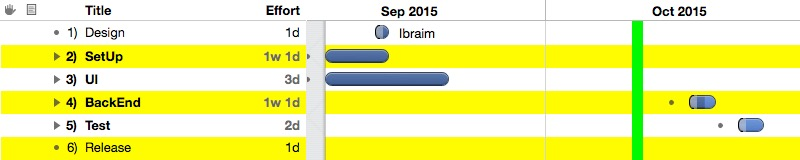
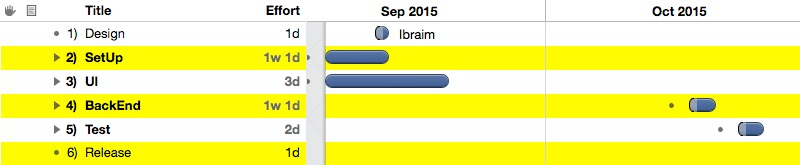
Final Commit

diff --git a/docs/GanttChart/GanttChart.html b/docs/GanttChart/GanttChart.html
@@ -30,7 +30,7 @@
                 <td>9/7/15, 8:00 AM</td>
                 <td>11/24/15, 8:15 AM</td>
                 <td>11w 1d 0.25h</td>
-                <td>71%</td>
+                <td>100%</td>
                 <td></td>
                 <td align="right"></td>
                 <td></td>
@@ -251,7 +251,7 @@
                 <td>10/16/15, 3:00 PM</td>
                 <td>10/20/15, 3:15 PM</td>
                 <td>2d 0.25h</td>
-                <td>58%</td>
+                <td>100%</td>
                 <td></td>
                 <td align="right"></td>
                 <td></td>
@@ -319,7 +319,7 @@
                 <td>10/16/15, 3:00 PM</td>
                 <td>10/19/15, 3:00 PM</td>
                 <td>1d</td>
-                <td>0%</td>
+                <td>100%</td>
                 <td></td>
                 <td align="right"></td>
                 <td>Luis</td>
@@ -336,7 +336,7 @@
                 <td>10/16/15, 3:00 PM</td>
                 <td>10/19/15, 3:00 PM</td>
                 <td>1d</td>
-                <td>0%</td>
+                <td>100%</td>
                 <td></td>
                 <td align="right"></td>
                 <td>Ibraim</td>
@@ -353,7 +353,7 @@
                 <td>10/16/15, 3:00 PM</td>
                 <td>10/19/15, 3:00 PM</td>
                 <td>1d</td>
-                <td>50%</td>
+                <td>100%</td>
                 <td></td>
                 <td align="right"></td>
                 <td>Martin</td>
@@ -370,7 +370,7 @@
                 <td>10/22/15, 2:30 PM</td>
                 <td>10/26/15, 2:30 PM</td>
                 <td>2d</td>
-                <td>0%</td>
+                <td>100%</td>
                 <td></td>
                 <td align="right"></td>
                 <td></td>
@@ -387,7 +387,7 @@
                 <td>10/22/15, 2:30 PM</td>
                 <td>10/23/15, 2:30 PM</td>
                 <td>1d</td>
-                <td>0%</td>
+                <td>100%</td>
                 <td></td>
                 <td align="right"></td>
                 <td>Ibraim</td>
@@ -404,7 +404,7 @@
                 <td>10/23/15, 2:30 PM</td>
                 <td>10/26/15, 2:30 PM</td>
                 <td>1d</td>
-                <td>0%</td>
+                <td>100%</td>
                 <td></td>
                 <td align="right"></td>
                 <td>Ibraim</td>
@@ -421,7 +421,7 @@
                 <td>11/23/15, 8:15 AM</td>
                 <td>11/24/15, 8:15 AM</td>
                 <td>1d</td>
-                <td>0%</td>
+                <td>100%</td>
                 <td></td>
                 <td align="right"></td>
                 <td>Luis</td>
@@ -435,7 +435,7 @@
             
         </table>
         <p/>
-        <p class="footer">Exported 10/12/15</p>
-        <p class="footer">OmniPlan&nbsp;2.4.1&nbsp;by <a href="http://www.omnigroup.com">The Omni Group</a></p>
+        <p class="footer">Exported 11/24/15</p>
+        <p class="footer">OmniPlan&nbsp;2.4.2&nbsp;by <a href="http://www.omnigroup.com">The Omni Group</a></p>
     </body>
 </html>

diff --git a/docs/GanttChart/GanttChartResources.html b/docs/GanttChart/GanttChartResources.html
@@ -22,7 +22,7 @@
                 <td>9/7/15, 8:15 AM</td>
                 <td>10/20/15, 3:15 PM</td>
                 <td>1w 3d</td>
-                <td>94%</td>
+                <td>100%</td>
                 <td align="right"></td>
             </tr>
             
@@ -67,7 +67,7 @@
                 <td>10/16/15, 3:00 PM</td>
                 <td>10/19/15, 3:00 PM</td>
                 <td>1d</td>
-                <td>50%</td>
+                <td>100%</td>
                 <td align="right"></td>
             </tr>
             
@@ -104,7 +104,7 @@
                 <td>9/9/15, 8:00 AM</td>
                 <td>11/24/15, 8:15 AM</td>
                 <td>1w</td>
-                <td>60%</td>
+                <td>100%</td>
                 <td align="right"></td>
             </tr>
             
@@ -140,7 +140,7 @@
                 <td>10/16/15, 3:00 PM</td>
                 <td>10/19/15, 3:00 PM</td>
                 <td>1d</td>
-                <td>0%</td>
+                <td>100%</td>
                 <td align="right"></td>
             </tr>
             
@@ -149,7 +149,7 @@
                 <td>11/23/15, 8:15 AM</td>
                 <td>11/24/15, 8:15 AM</td>
                 <td>1d</td>
-                <td>0%</td>
+                <td>100%</td>
                 <td align="right"></td>
             </tr>
             
@@ -159,7 +159,7 @@
                 <td>9/7/15, 8:00 AM</td>
                 <td>10/26/15, 2:30 PM</td>
                 <td>1w 1d</td>
-                <td>50%</td>
+                <td>100%</td>
                 <td align="right"></td>
             </tr>
             
@@ -195,7 +195,7 @@
                 <td>10/16/15, 3:00 PM</td>
                 <td>10/19/15, 3:00 PM</td>
                 <td>1d</td>
-                <td>0%</td>
+                <td>100%</td>
                 <td align="right"></td>
             </tr>
             
@@ -204,7 +204,7 @@
                 <td>10/22/15, 2:30 PM</td>
                 <td>10/23/15, 2:30 PM</td>
                 <td>1d</td>
-                <td>0%</td>
+                <td>100%</td>
                 <td align="right"></td>
             </tr>
             
@@ -213,7 +213,7 @@
                 <td>10/23/15, 2:30 PM</td>
                 <td>10/26/15, 2:30 PM</td>
                 <td>1d</td>
-                <td>0%</td>
+                <td>100%</td>
                 <td align="right"></td>
             </tr>
             
@@ -230,7 +230,7 @@
             
         </table>
         <p/>
-        <p class="footer">Exported 10/12/15</p>
-        <p class="footer">OmniPlan&nbsp;2.4.1&nbsp;by <a href="http://www.omnigroup.com">The Omni Group</a></p>
+        <p class="footer">Exported 11/24/15</p>
+        <p class="footer">OmniPlan&nbsp;2.4.2&nbsp;by <a href="http://www.omnigroup.com">The Omni Group</a></p>
     </body>
 </html>

diff --git a/docs/GanttChart/index.html b/docs/GanttChart/index.html
@@ -251,7 +251,7 @@ img.icon
                         <td class="data-content-big">11/24/15, 8:15 AM</td>
                         <td class="data-content-big">9w 7.5h</td>
                         <td class="data-content-big"></td>
-                        <td class="data-content-big">71%</td>
+                        <td class="data-content-big">100%</td>
                     </tr>
                 </table>
             </div>
@@ -341,7 +341,7 @@ img.icon
                 </table>
             </div>
         </div>
-        <p class="footer">Exported 10/12/15</p>
-        <p class="footer">OmniPlan&nbsp;2.4.1&nbsp;by <a href="http://www.omnigroup.com">The Omni Group</a></p>
+        <p class="footer">Exported 11/24/15</p>
+        <p class="footer">OmniPlan&nbsp;2.4.2&nbsp;by <a href="http://www.omnigroup.com">The Omni Group</a></p>
 	</body>
 </html>

diff --git a/docs/GanttChart/GanttChartGantt.html b/docs/GanttChart/GanttChartGantt.html
@@ -1,6 +1,6 @@
 <html><body><table border="0" cellspacing="0" cellpadding="0">
 <tr>
-	<td><img src="include/gantt0,0.jpg?nocacheTag=863141645" border=0/></td>
-	<td><img src="include/gantt1,0.jpg?nocacheTag=1733006173" border=0/></td>
+	<td><img src="include/gantt0,0.jpg?nocacheTag=-756482257" border=0/></td>
+	<td><img src="include/gantt1,0.jpg?nocacheTag=1497235379" border=0/></td>
 </tr>
 </table></body></html>
